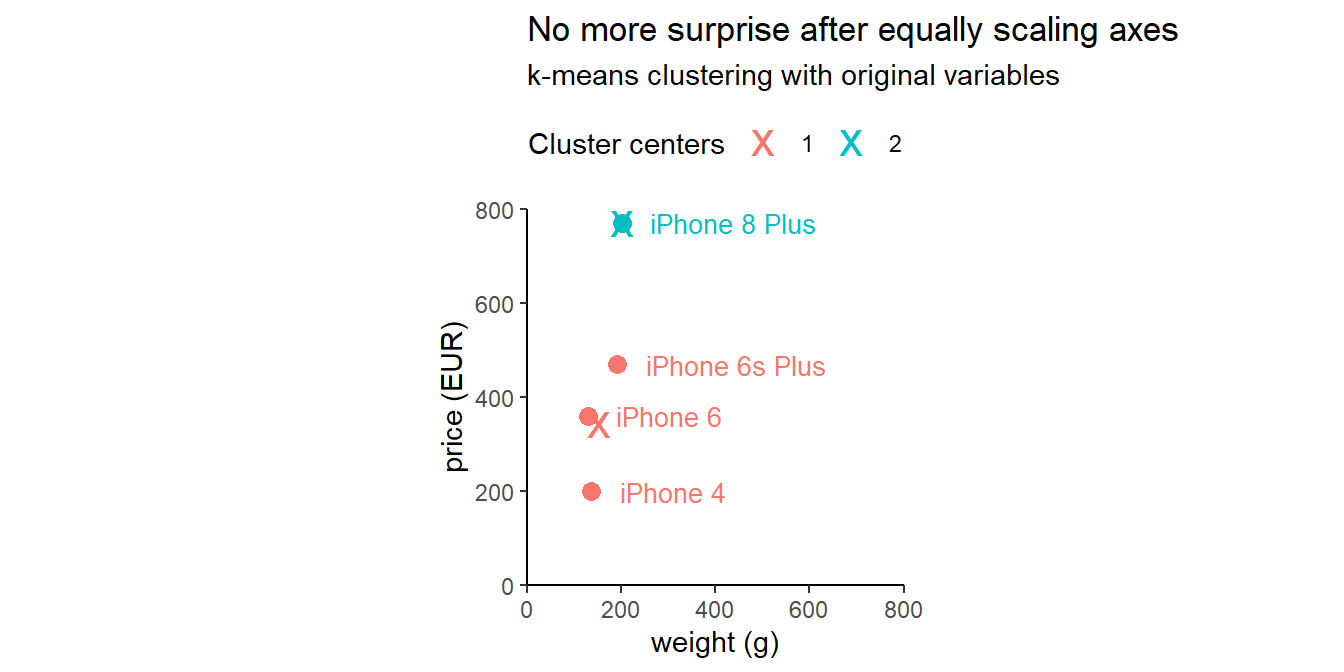
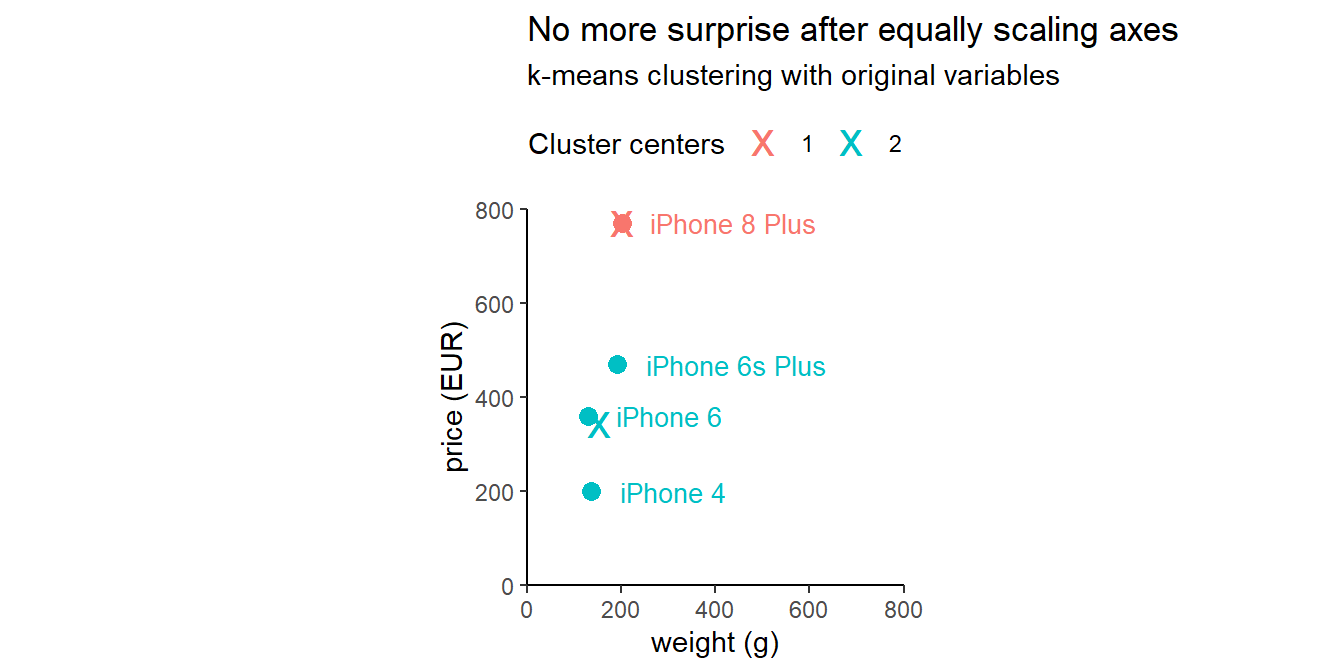
Final draft.

diff --git a/content/post/2019-05-06-feature-scaling-in-k-means-clustering.html b/content/post/2019-05-06-feature-scaling-in-k-means-clustering.html
@@ -1,10 +1,10 @@
 ---
-title: 'Scaling of variables in k-means clustering'
+title: 'Effect of (not) standardizing variables in k-means clustering'
 author: Dmitrijs Kass
 date: '2019-07-27'
 slug: feature-scaling-in-k-means-clustering
 categories:
-  - clusterings
+  - clustering
 tags: []
 output:
   blogdown::html_page:
@@ -16,27 +16,30 @@ bibliography: bibliography.bib
 
 <div id="TOC">
 <ul>
-<li><a href="#clustering-and-distances">Clustering and distances</a></li>
+<li><a href="#clustering-distances-k-means">Clustering, distances, k-means</a></li>
 <li><a href="#surprise">Surprise</a></li>
-<li><a href="#k-means-with-original-variables">K-means with original variables</a></li>
-<li><a href="#k-means-with-standardized-variables">K-means with standardized variables</a></li>
+<li><a href="#original-variables">Original variables</a></li>
+<li><a href="#standardized-variables">Standardized variables</a></li>
 <li><a href="#references">References</a></li>
 </ul>
 </div>
 
 <p>The process of clustering usually involves variable scaling / standardization. This post illustrates the effect of this data pre-processing step on the result of k-means clustering using a small data set of iPhones.</p>
 <hr />
-<div id="clustering-and-distances" class="section level1">
-<h1>Clustering and distances</h1>
+<div id="clustering-distances-k-means" class="section level1">
+<h1>Clustering, distances, k-means</h1>
 <p>Clustering refers to a very broad set of techniques for finding subgroups, or clusters, in a data set. When we cluster the observations of a data set, we seek to partition them into distinct groups so that</p>
 <ul>
 <li>the observations within each group are quite “similar” to each other,</li>
-<li>while observations in different groups are quite “different” from each other <span class="citation">(James et al. 2017, 385)</span>.</li>
+<li>while observations in different groups are quite “different” from each other.</li>
 </ul>
-<p>There are many possible ways to define the concept of “(dis)similarity”, but by far the most common choice involves <a href="https://en.wikipedia.org/wiki/Euclidean_distance">Euclidean distance</a>. If the points <span class="math inline">\((x_1, y_1)\)</span> and <span class="math inline">\((x_2,y_2)\)</span> are in 2-dimensional space, then the Euclidean distance between them is</p>
-<p><span class="math display">\[\sqrt{(x_2−x_1)^2+(y_2−y_1)^2}\text{.}\]</span></p>
-<p>Let’s take k-means clustering. The algorithm aims to partition observations into <em>k</em> groups such that the sum of squared <em>distances</em> from observations to the assigned cluster centres is minimized. In the example plotted below, if we are looking for two clusters then points A and B would be in one cluster and points C and D in another.</p>
-<p><img src="/post/2019-05-06-feature-scaling-in-k-means-clustering_files/figure-html/plot_distance_example-1.png" width="384" style="display: block; margin: auto;" /></p>
+<p>There are many possible ways to define the concept of “(dis)similarity”, but by far the most common choice involves squared Euclidean distance <span class="citation">(James et al. 2017, 385)</span>.</p>
+<p>The Euclidean distance of two points <span class="math inline">\((x_1, y_1)\)</span> and <span class="math inline">\((x_2,y_2)\)</span> in a 2-dimensional space is calculated as</p>
+<p><span class="math display">\[\sqrt{(x_2−x_1)^2+(y_2−y_1)^2}\text{.}\]</span>
+For example, if we are given two points with coordinates (1, 2) and (3, 4) then the Euclidean distance <span class="math inline">\(d\)</span> between these points is approximately 2.8:</p>
+<p><img src="/post/2019-05-06-feature-scaling-in-k-means-clustering_files/figure-html/plot_distance-1.png" width="480" style="display: block; margin: auto;" /></p>
+<p>Let’s take k-means clustering. The algorithm aims to partition observations into <em>k</em> groups such that the sum of squared <em>distances</em> from observations to the assigned cluster centres is minimized. In the example plotted below, there are two distinct clusters (<span class="math inline">\(k=2\)</span>) with 10 observations in each. Cluster centers are highlighted with coloured crosses.</p>
+<p><img src="/post/2019-05-06-feature-scaling-in-k-means-clustering_files/figure-html/plot_clusters-1.png" width="384" style="display: block; margin: auto;" /></p>
 </div>
 <div id="surprise" class="section level1">
 <h1>Surprise</h1>
@@ -123,20 +126,21 @@ iPhone 8 Plus
 </table>
 <p>The plot below depicts four iPhone models in two dimensions: approximate price in euro and weight in grams. Please do a mental exercise and assign these four iPhone models into two clusters. Which phones did you assign into cluster 1 and which into cluster 2?</p>
 <p><img src="/post/2019-05-06-feature-scaling-in-k-means-clustering_files/figure-html/plot_surprise_1_question-1.png" width="672" style="display: block; margin: auto;" /></p>
-<p>Did you assign iPhone 6 and 4 into one cluster and iPhone 8 Plus and 6s Plus into another? That’s not what k-mean would do it without variable scaling.</p>
+<p>Did you assign iPhone 6 and 4 into one cluster and iPhone 8 Plus and 6s Plus into another? That’s not what k-means would do without standardizing variables.</p>
 </div>
-<div id="k-means-with-original-variables" class="section level1">
-<h1>K-means with original variables</h1>
-<p>Below is the result from k-means. iPhone 8 Plus is alone in one cluster and three other phones are in another cluster:</p>
-<pre class="r"><code># Data for clusering.
+<div id="original-variables" class="section level1">
+<h1>Original variables</h1>
+<p>Below is the result from k-means with <span class="math inline">\(k=2\)</span>. iPhone 8 Plus is alone in cluster 1 and three other phones are in cluster 2:</p>
+<pre class="r"><code># Data for clustering.
 phones_cl &lt;- phones_df[c(&quot;approx_price_eur&quot;, &quot;weight_g&quot;)]
 # Reproducibility.
-set.seed(1)
+set.seed(4)
 # K-means with original variables.
-kmeans_fit &lt;- kmeans(phones_cl, centers = 2)</code></pre>
+kmeans_orig &lt;- kmeans(phones_cl, centers = 2)</code></pre>
+<p>Hopefully, you are surprised.</p>
 <p><img src="/post/2019-05-06-feature-scaling-in-k-means-clustering_files/figure-html/plot_kmeans_orig-1.png" width="672" style="display: block; margin: auto;" /></p>
-<p>The trick is in the variability of prices and weights. The range of prices is 200 - 770 = 570, while the range of weights is 129 - 202 = 73. The price range is 7.8 times greater than the weight range. It means that in a calculation of Euclidean distances, 1 euro difference in price is equivalent to 7.8 difference in weight. Thus, the price affects the clustering result more than the weight.</p>
-<p>If we re-plot the same data set while ensuring that one unit on the x-axis (euros) is the same length as one unit on the y-axis (grams), the k-means result is no more a surprise:</p>
+<p>The trick is in the variability of prices and weights. The range of prices is 200 - 770 = 570, while the range of weights is 129 - 202 = 73. The price range is 7.8 times greater than the weight range. It means that in a calculation of Euclidean distances, 1 euro difference in price is equivalent to 7.8 gram difference in weight. Thus, a small difference in price may outweigh a big difference in weight. In other words, price affects k-means results more than weight.</p>
+<p>If we re-plot the same data set while ensuring that one unit on the x-axis (euros) has the same length as one unit on the y-axis (grams), the k-means result is no more a surprise:</p>
 <p><img src="/post/2019-05-06-feature-scaling-in-k-means-clustering_files/figure-html/plot_kmeans_orig_coord_equal-1.png" width="672" style="display: block; margin: auto;" /></p>
 <p>Here are pairwise Euclidean distances calculated with <code>dist()</code>:</p>
 <pre class="r"><code># Add rownames to see phone models in a distance matrix.
@@ -150,22 +154,33 @@ round(dist(phones_cl), 1)</code></pre>
 ## iPhone 8 Plus     573.7    416.4          300.2</code></pre>
 <p>Notice how far iPhone 8 Plus is from all other phones.</p>
 </div>
-<div id="k-means-with-standardized-variables" class="section level1">
-<h1>K-means with standardized variables</h1>
-<p>Now consider standardizing each variable by subtracting the mean <span class="math inline">\(\bar{x}\)</span> (i.e. centering) and dividing by its standard deviation <span class="math inline">\(s\)</span>:</p>
+<div id="standardized-variables" class="section level1">
+<h1>Standardized variables</h1>
+<p>Consider standardizing each variable by subtracting the mean <span class="math inline">\(\bar{x}\)</span> (i.e. centering) and dividing by its standard deviation <span class="math inline">\(s\)</span>:</p>
 <p><span class="math display">\[Z=\frac{X-\bar{x}}{s}.\]</span></p>
+<p>This equalizes the variability in data (<span class="math inline">\(s=1\)</span> for each variable) and makes price and weight equally important for k-means clustering. Here are variables standardized with <code>scale()</code>:</p>
 <pre class="r"><code>phones_cl_scaled &lt;- scale(phones_cl)
-round(dist(phones_cl_scaled), 1)</code></pre>
+as_tibble(phones_cl_scaled)</code></pre>
+<pre><code>## # A tibble: 4 x 2
+##   approx_price_eur weight_g
+##              &lt;dbl&gt;    &lt;dbl&gt;
+## 1          -1.04     -0.750
+## 2          -0.374    -0.965
+## 3           0.0832    0.724
+## 4           1.33      0.991</code></pre>
+<p>And corresponding distances:</p>
+<pre class="r"><code>round(dist(phones_cl_scaled), 1)</code></pre>
 <pre><code>##                iPhone 4 iPhone 6 iPhone 6s Plus
 ## iPhone 6            0.7                        
 ## iPhone 6s Plus      1.9      1.7               
 ## iPhone 8 Plus       2.9      2.6            1.3</code></pre>
-<p>The ranks of distances have changed and so do k-means results:</p>
-<pre class="r"><code>kmeans_fit &lt;- kmeans(phones_cl_scaled, centers = 2)</code></pre>
+<p>Notice that iPhone 6s Plus is now closest to iPhone 8 Plus. K-means clustering changes accordingly.</p>
+<pre class="r"><code>kmeans_scaled &lt;- kmeans(phones_cl_scaled, centers = 2)</code></pre>
+<p>The plot below shows k-means clustering using standardized variables:</p>
 <p><img src="/post/2019-05-06-feature-scaling-in-k-means-clustering_files/figure-html/plot_kmeans_scaled_standardized_measurements-1.png" width="672" style="display: block; margin: auto;" /></p>
-<p>And the same with variables scaled back to original measurements:</p>
-<p><img src="/post/2019-05-06-feature-scaling-in-k-means-clustering_files/figure-html/plot_kmeans_scaled_orig_measurements-1.png" width="672" style="display: block; margin: auto;" /></p>
-<p><img src="/post/2019-05-06-feature-scaling-in-k-means-clustering_files/figure-html/plot_combined-1.png" width="672" style="display: block; margin: auto;" /></p>
+<hr />
+<p>To summarize, here are side-by-side k-means clustering results for <span class="math inline">\(k=2\)</span> with original variables (left) and standardized variables (right):</p>
+<p><img src="/post/2019-05-06-feature-scaling-in-k-means-clustering_files/figure-html/plot_kmeans_combined-1.png" width="672" style="display: block; margin: auto;" /></p>
 <hr>
 <p>I would appreciate any comments or suggestions. Please leave them below, no login required if you check “I’d rather post as a guest”.</p>
 </div>
